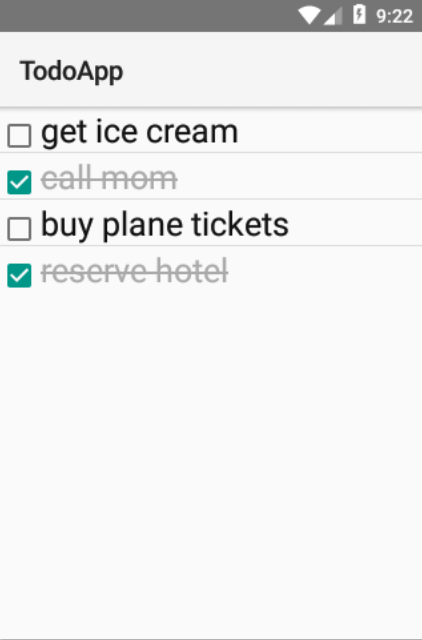
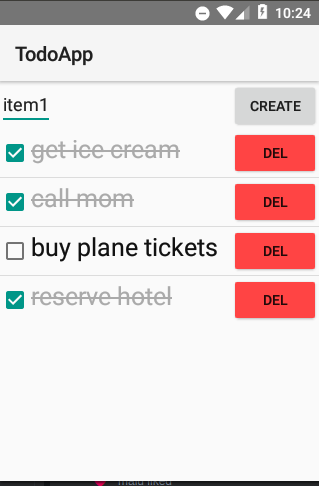
add button delete item and update screenshot

diff --git a/todoapp/app.py b/todoapp/app.py
@@ -1,5 +1,5 @@
 import android
-from android.graphics import Paint
+from android.graphics import Paint, PorterDuff
 from android.view import ViewGroup
 from android.content import ContentValues
 from android.widget import Button, CheckBox, EditText, LinearLayout, RelativeLayout, ListView, TextView, LayoutParams
@@ -37,8 +37,9 @@ class StrikeableTextView(extends=android.widget.TextView):
 
 
 class TodoItem:
-    def __init__(self, value, context, layout=None, callback=None):
-        self.callback = callback
+    def __init__(self, value, context, layout=None, callback_update=None, callback_delete=None):
+        self.callback_update = callback_update
+        self.callback_delete = callback_delete
         self.context = context
         self.value = value
         if layout:
@@ -50,24 +51,41 @@ class TodoItem:
             self.checkbox = CheckBox(self.context)
             self.checkbox.setOnClickListener(OnClick(self.update))
             self.layout.addView(self.checkbox)
+            
+            print(value)
             self.text_view = StrikeableTextView(self.context, striked=value['finished'])
             self.text_view.setTextSize(25)
             self.layout.addView(self.text_view)
+            
+            self.button_delete = Button(self.context)
+            self.button_delete.setOnClickListener(OnClick(self.delete))
+            self.button_delete.getBackground().setColorFilter(0xffff4444, PorterDuff.Mode.MULTIPLY)
+            self.button_delete.setText('Del')
+            relative1 = RelativeLayout(self.context) # relative inside horizontal layout
+            params1 = RelativeLayout.LayoutParams(self.layout.LayoutParams.WRAP_CONTENT, self.layout.LayoutParams.WRAP_CONTENT)
+            params1.addRule(RelativeLayout.ALIGN_PARENT_RIGHT)
+            relative1.addView(self.button_delete, params1)
+            self.layout.addView(relative1)
+
         self.text_view.setText(value['title'])
         self.checkbox.setChecked(value['finished'])
 
     def update(self):
         self.value['finished'] = self.checkbox.isChecked()
         self.text_view.setStriked(self.value['finished'])
-        self.callback(self.value)
+        self.callback_update(self.value)
+
+    def delete(self):
+        self.callback_delete(self.value)
 
     def getView(self):
         return self.layout
 
 
 class ListAdapter(extends=android.widget.BaseAdapter):
-    def __init__(self, context, values, listener=None):
-        self.listener = listener
+    def __init__(self, context, values, listener_update=None, listener_delete=None):
+        self.listener_update = listener_update
+        self.listener_delete = listener_delete
         self.context = context
         self.values = list(values)
 
@@ -85,9 +103,11 @@ class ListAdapter(extends=android.widget.BaseAdapter):
                 container: android.view.ViewGroup) -> android.view.View:
         value = self.getItem(position)
         if view is None:
-            todo = TodoItem(value, self.context, callback=self.listener)
+            todo = TodoItem(value, self.context,
+                callback_update=self.listener_update, callback_delete=self.listener_delete)
         else:
-            todo = TodoItem(value, self.context, layout=view, callback=self.listener)
+            todo = TodoItem(value, self.context, layout=view,
+                callback_update=self.listener_update, callback_delete=self.listener_delete)
         return todo.getView()
 
 
@@ -145,6 +165,13 @@ class TodoDB(extends=android.database.sqlite.SQLiteOpenHelper):
         )
         db.close()
 
+    def delete_item(self, value):
+        db = self.getWritableDatabase()
+        db.execSQL(
+            "DELETE FROM todo WHERE id=%d"%(value['id'])
+        )
+        db.close()
+
 class MainApp:
     def __init__(self):
         self._activity = android.PythonActivity.setListener(self)
@@ -190,7 +217,8 @@ class MainApp:
 
         print('dbitems', self.dbitems)
 
-        self.adapter = ListAdapter(self._activity, self.dbitems, listener=self.update_item)
+        self.adapter = ListAdapter(self._activity, self.dbitems,
+            listener_update=self.update_item, listener_delete=self.delete_item)
         self.listView = ListView(self._activity)
         self.listView.setAdapter(self.adapter)
 
@@ -208,6 +236,12 @@ class MainApp:
         self.adapter.values = list(self.dbitems)
         self.listView.setAdapter(self.adapter)
 
+    def delete_item(self, value):
+        self.db.delete_item(value)
+        self.dbitems = self.db.fetch_items()
+        self.adapter.values = list(self.dbitems)
+        self.listView.setAdapter(self.adapter)
 
 def main():
     MainApp()
+    
